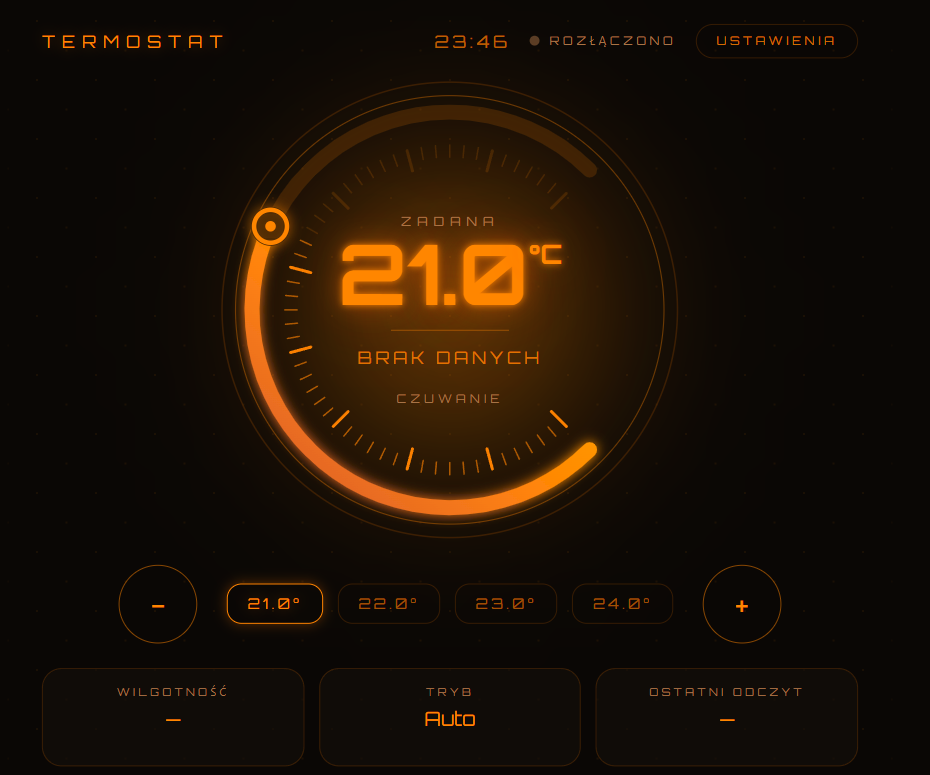
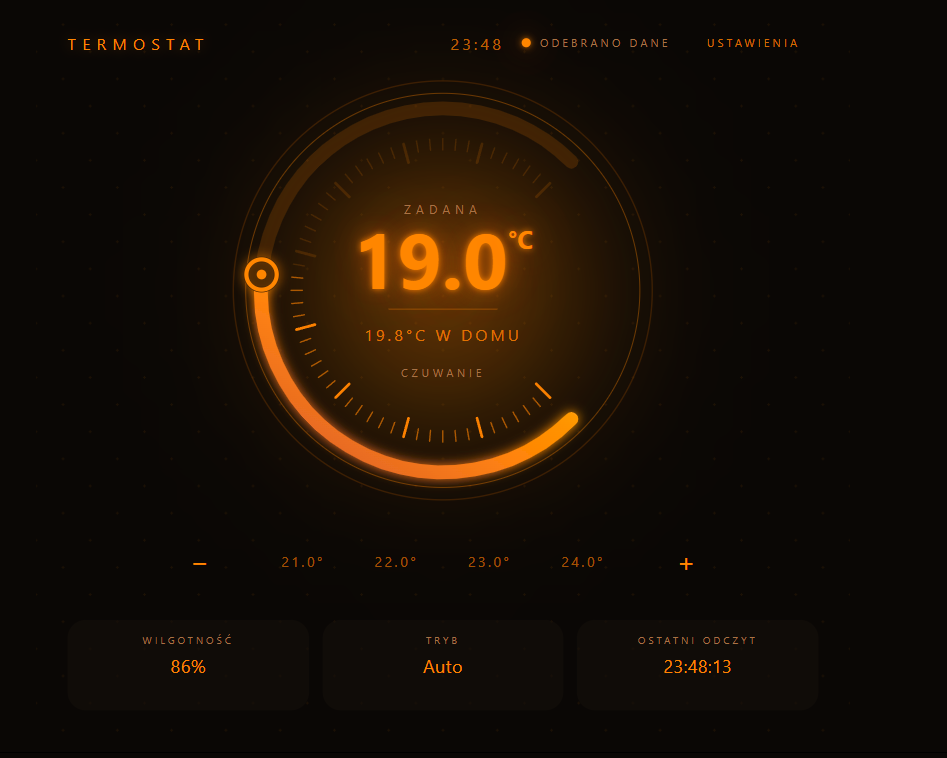
docs: show converted thermostat with live controller data

diff --git a/README.md b/README.md
@@ -6,11 +6,11 @@ jako instalowalny widget Node-RED Dashboard 2. Zachowujesz własny wygląd
 interfejsu, a dane i komendy przekazujesz przez wiadomości Node-RED.
 
 <p align="center">
-  <img src="docs/images/radiant-dial.png" alt="Radiant Dial: bursztynowa tarcza termostatu, przyciski temperatury i ustawienia" width="760">
+  <img src="docs/images/radiant-dial.png" alt="Radiant Dial po konwersji do Node-RED Dashboard 2: nastawa 19,0°C, temperatura domu 19,8°C i odebrane dane" width="760">
 </p>
 
 <p align="center">
-  <em>Radiant Dial — przykładowy interfejs projektu. Zrzut przedstawia ekran bez odebranych danych.</em>
+  <em>Radiant Dial po konwersji do Node-RED Dashboard 2 — działający widget z danymi live ze sterownika pieca.</em>
 </p>
 
 ## Co robi konwerter?
